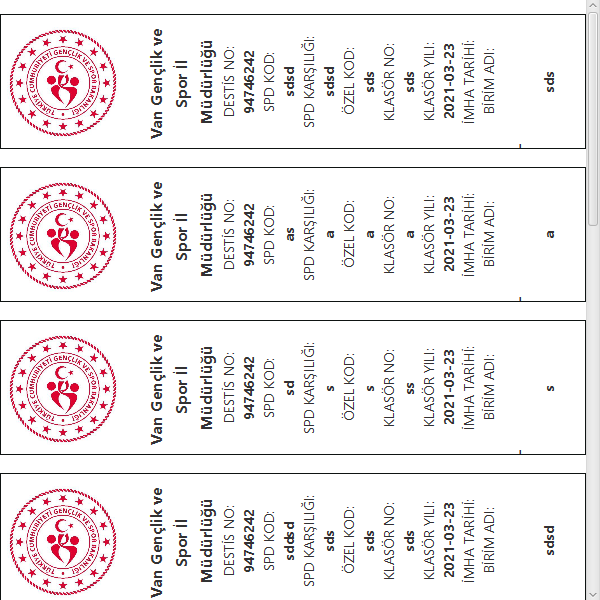
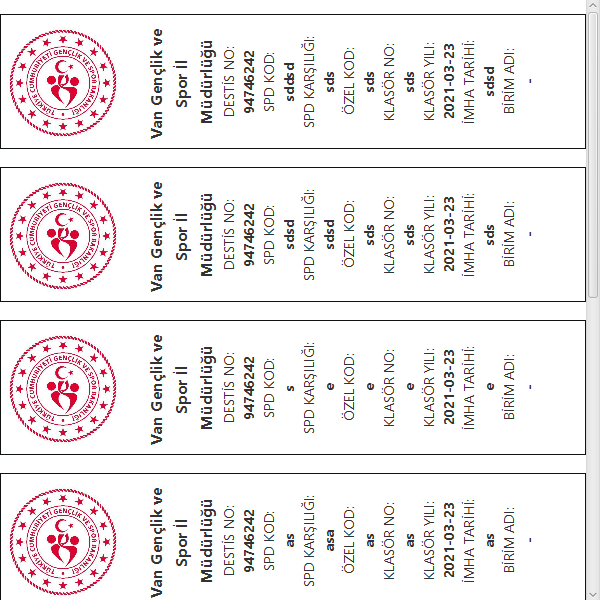
problem have been solved

diff --git a/src/main/java/org/kumsal/ficomSoft/SirtlikCikartma.java b/src/main/java/org/kumsal/ficomSoft/SirtlikCikartma.java
@@ -3,21 +3,6 @@ package org.kumsal.ficomSoft;
 import com.jfoenix.controls.JFXButton;
 import com.jfoenix.controls.JFXCheckBox;
 import com.jfoenix.controls.JFXDatePicker;
-
-import java.io.File;
-import java.io.IOException;
-import java.net.URL;
-import java.sql.PreparedStatement;
-import java.sql.ResultSet;
-import java.sql.SQLException;
-import java.text.ParseException;
-import java.text.SimpleDateFormat;
-import java.time.LocalDate;
-import java.util.ArrayList;
-import java.util.Date;
-import java.util.ResourceBundle;
-import java.util.concurrent.TimeUnit;
-
 import com.jfoenix.controls.JFXRadioButton;
 import com.mysql.cj.jdbc.MysqlDataSource;
 import javafx.beans.value.ChangeListener;
@@ -41,6 +26,20 @@ import javafx.stage.StageStyle;
 import javafx.util.Duration;
 import org.controlsfx.control.Notifications;
 import org.kumsal.ficomSoft.MySqlConector.ConnectorMysql;
+
+import java.io.File;
+import java.io.IOException;
+import java.net.URL;
+import java.sql.PreparedStatement;
+import java.sql.ResultSet;
+import java.sql.SQLException;
+import java.text.ParseException;
+import java.text.SimpleDateFormat;
+import java.time.LocalDate;
+import java.util.ArrayList;
+import java.util.Date;
+import java.util.ResourceBundle;
+import java.util.concurrent.TimeUnit;
 
 public class SirtlikCikartma {
 
@@ -106,11 +105,11 @@ public class SirtlikCikartma {
 
     MysqlDataSource dbSource = ConnectorMysql.connect();
     ObservableList<SirtlikModel> modelObservableValue;
-    public static ArrayList<sirtlikModel2> allDataSirtlik=new ArrayList<>();
+    public static ArrayList<sirtlikModel2> allDataSirtlik = new ArrayList<>();
 
     @FXML
     void initialize() throws SQLException {
-        modelObservableValue= FXCollections.observableArrayList();
+        modelObservableValue = FXCollections.observableArrayList();
         onlyDate.setDisable(true);
         ısCheck.setCellValueFactory(new PropertyValueFactory<>("ısCheck"));
         destisno.setCellValueFactory(new PropertyValueFactory<>("destisno"));
@@ -123,11 +122,11 @@ public class SirtlikCikartma {
         aciklama.setCellValueFactory(new PropertyValueFactory<>("aciklama"));
         yuktarihi.setCellValueFactory(new PropertyValueFactory<>("yuktarihi"));
         yazdir.setOnMouseClicked(mouseEvent -> {
-            for (SirtlikModel model:table.getItems()){
-                if (model.getIsCheck().isSelected()){
-                    sirtlikModel2 theModel=new sirtlikModel2(
+            for (SirtlikModel model : table.getItems()) {
+                if (model.getIsCheck().isSelected()) {
+                    sirtlikModel2 theModel = new sirtlikModel2(
                             model.getDestisno(),
-                            "-",
+                            model.getBirimad(),
                             model.getSpdkod(),
                             model.getSpdkarsilik(),
                             model.getOzelkod(),
@@ -140,7 +139,7 @@ public class SirtlikCikartma {
                 }
 
             }
-            if (allDataSirtlik.size()>0){
+            if (allDataSirtlik.size() > 0) {
                 FXMLLoader loader = new FXMLLoader();
                 loader.setLocation(getClass().getResource("sirtlikYazdir.fxml"));
                 AnchorPane root = null;
@@ -156,11 +155,10 @@ public class SirtlikCikartma {
                 stage.initModality(Modality.WINDOW_MODAL);
                 stage.initOwner(PrimaryController.stage);
                 stage.show();
-            }else{
+            } else {
 
             }
         });
-
 
 
         ToggleGroup group = new ToggleGroup();
@@ -180,15 +178,15 @@ public class SirtlikCikartma {
             @Override
             public void changed(ObservableValue<? extends Boolean> observableValue, Boolean aBoolean, Boolean t1) {
                 if (option2.isSelected()) {
-                        onlyDate.setDisable(false);
-                        first.setDisable(true);
-                        seccond.setDisable(true);
-                        table.getItems().clear();
-                    if (onlyDate.getValue()!=null){
-                        LocalDate date=onlyDate.getValue();
-                        String date2=date.toString();
-                        for (SirtlikModel models: modelObservableValue){
-                            if (models.getKtarihi().equals(date2)){
+                    onlyDate.setDisable(false);
+                    first.setDisable(true);
+                    seccond.setDisable(true);
+                    table.getItems().clear();
+                    if (onlyDate.getValue() != null) {
+                        LocalDate date = onlyDate.getValue();
+                        String date2 = date.toString();
+                        for (SirtlikModel models : modelObservableValue) {
+                            if (models.getKtarihi().equals(date2)) {
                                 table.getItems().add(models);
                             }
                         }
@@ -200,15 +198,15 @@ public class SirtlikCikartma {
 
         File file = new File("src/main/resources/org/kumsal/ficomSoft/image/ficomtranslogo.png");
         Image image = new Image(file.toURI().toString());
-        ImageView imageView=new ImageView(image);
+        ImageView imageView = new ImageView(image);
         table.setPlaceholder(imageView);
         onlyDate.valueProperty().addListener((observableValue, localDate, t1) -> {
             table.getItems().clear();
-            if (onlyDate.getValue()!=null){
-                LocalDate date=onlyDate.getValue();
-                String date2=date.toString();
-                for (SirtlikModel models: modelObservableValue){
-                    if (models.getKtarihi().equals(date2)){
+            if (onlyDate.getValue() != null) {
+                LocalDate date = onlyDate.getValue();
+                String date2 = date.toString();
+                for (SirtlikModel models : modelObservableValue) {
+                    if (models.getKtarihi().equals(date2)) {
                         table.getItems().add(models);
                     }
                 }
@@ -217,10 +215,10 @@ public class SirtlikCikartma {
         });
         first.valueProperty().addListener((observableValue, localDate, t1) -> {
             table.getItems().clear();
-            if (seccond.getValue()!=null && first.getValue()!=null){
-                if (betweenDate(first.getValue(),seccond.getValue())){
-                    for (SirtlikModel models: modelObservableValue){
-                        if (betweenDateForPivot(first.getValue(),seccond.getValue(),models.getKtarihi())){
+            if (seccond.getValue() != null && first.getValue() != null) {
+                if (betweenDate(first.getValue(), seccond.getValue())) {
+                    for (SirtlikModel models : modelObservableValue) {
+                        if (betweenDateForPivot(first.getValue(), seccond.getValue(), models.getKtarihi())) {
                             table.getItems().add(models);
                         }
                     }
@@ -229,10 +227,10 @@ public class SirtlikCikartma {
         });
         seccond.valueProperty().addListener((observableValue, localDate, t1) -> {
             table.getItems().clear();
-            if (seccond.getValue()!=null && first.getValue()!=null){
-                if (betweenDate(first.getValue(),seccond.getValue())){
-                    for (SirtlikModel models: modelObservableValue){
-                        if (betweenDateForPivot(first.getValue(),seccond.getValue(),models.getKtarihi())){
+            if (seccond.getValue() != null && first.getValue() != null) {
+                if (betweenDate(first.getValue(), seccond.getValue())) {
+                    for (SirtlikModel models : modelObservableValue) {
+                        if (betweenDateForPivot(first.getValue(), seccond.getValue(), models.getKtarihi())) {
                             table.getItems().add(models);
                         }
                     }
@@ -249,34 +247,35 @@ public class SirtlikCikartma {
         JFXButton sil;
         while (resultSet.next()) {
 
-                loadedFile=new SirtlikModel(
-                        resultSet.getString(1),
-                        resultSet.getString(2),
-                        resultSet.getString(3),
-                        resultSet.getString(4),
-                        resultSet.getString(5),
-                        resultSet.getString(6),
-                        resultSet.getString(7),
-                        resultSet.getString(8),
-                        resultSet.getString(9),
-                        resultSet.getString(10),
-                        new JFXCheckBox()
-                );
-                modelObservableValue.add(loadedFile);
+            loadedFile = new SirtlikModel(
+                    resultSet.getString(1),
+                    resultSet.getString(2),
+                    resultSet.getString(3),
+                    resultSet.getString(4),
+                    resultSet.getString(5),
+                    resultSet.getString(6),
+                    resultSet.getString(7),
+                    resultSet.getString(8),
+                    resultSet.getString(9),
+                    resultSet.getString(10),
+                    new JFXCheckBox()
+            );
+            modelObservableValue.add(loadedFile);
         }
 //            table.add(loadedFile);
     }
-    public static boolean betweenDateForPivot(LocalDate first, LocalDate second,String pwvot){
+
+    public static boolean betweenDateForPivot(LocalDate first, LocalDate second, String pwvot) {
         SimpleDateFormat myFormat = new SimpleDateFormat("yyyy-mm-dd");
         try {
             Date date1 = myFormat.parse(first.toString());
             Date date2 = myFormat.parse(second.toString());
-            Date pivot=myFormat.parse(pwvot);
+            Date pivot = myFormat.parse(pwvot);
             long diff = pivot.getTime() - date1.getTime();
-            long diff2=date2.getTime()-pivot.getTime();
-            if (diff>=0 && diff2>=0){
+            long diff2 = date2.getTime() - pivot.getTime();
+            if (diff >= 0 && diff2 >= 0) {
                 return true;
-            }else {
+            } else {
                 return false;
             }
         } catch (ParseException e) {
@@ -284,14 +283,15 @@ public class SirtlikCikartma {
             return false;
         }
     }
-    public boolean betweenDate(LocalDate first, LocalDate second){
+
+    public boolean betweenDate(LocalDate first, LocalDate second) {
         SimpleDateFormat myFormat = new SimpleDateFormat("yyyy-mm-dd");
         try {
             Date date1 = myFormat.parse(first.toString());
             Date date2 = myFormat.parse(second.toString());
             long diff = date2.getTime() - date1.getTime();
-            long differance=TimeUnit.DAYS.convert(diff, TimeUnit.MILLISECONDS);
-            if (differance<0){
+            long differance = TimeUnit.DAYS.convert(diff, TimeUnit.MILLISECONDS);
+            if (differance < 0) {
                 Notifications.create()
                         .title("Hata")
                         .text("Son tarih ilk tarihten önce olamaz")
@@ -300,7 +300,7 @@ public class SirtlikCikartma {
                         .showError();
                 this.first.setValue(this.seccond.getValue());
                 return false;
-            }else{
+            } else {
                 return true;
             }
         } catch (ParseException e) {
